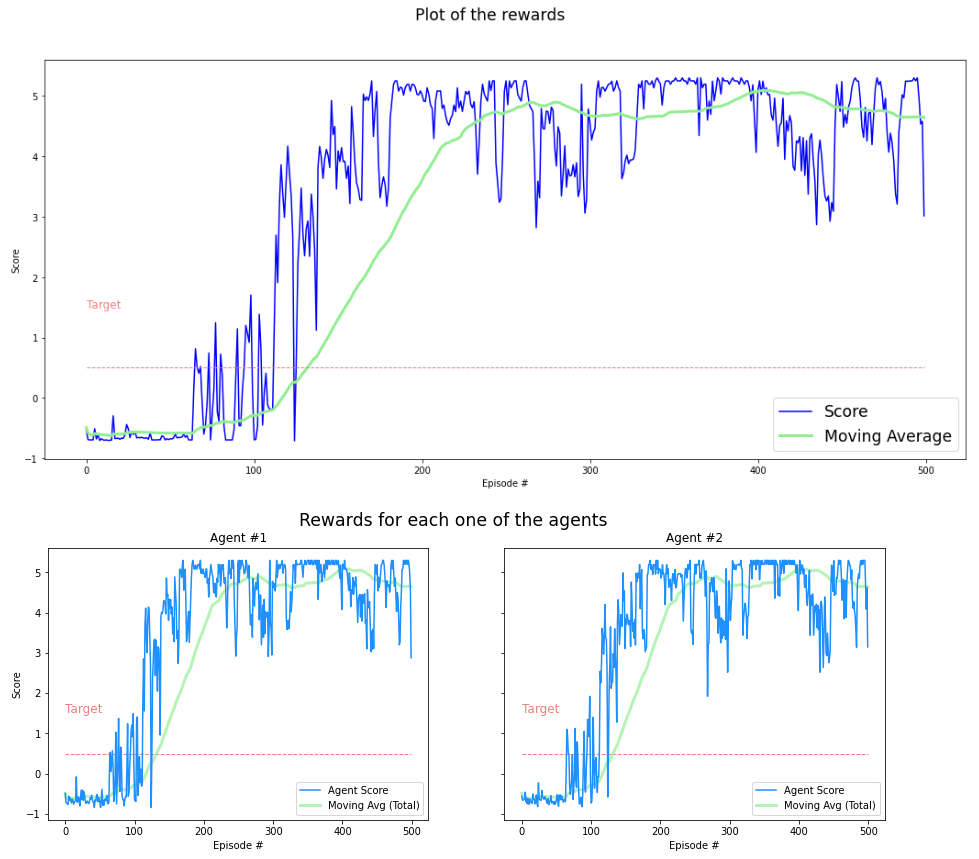
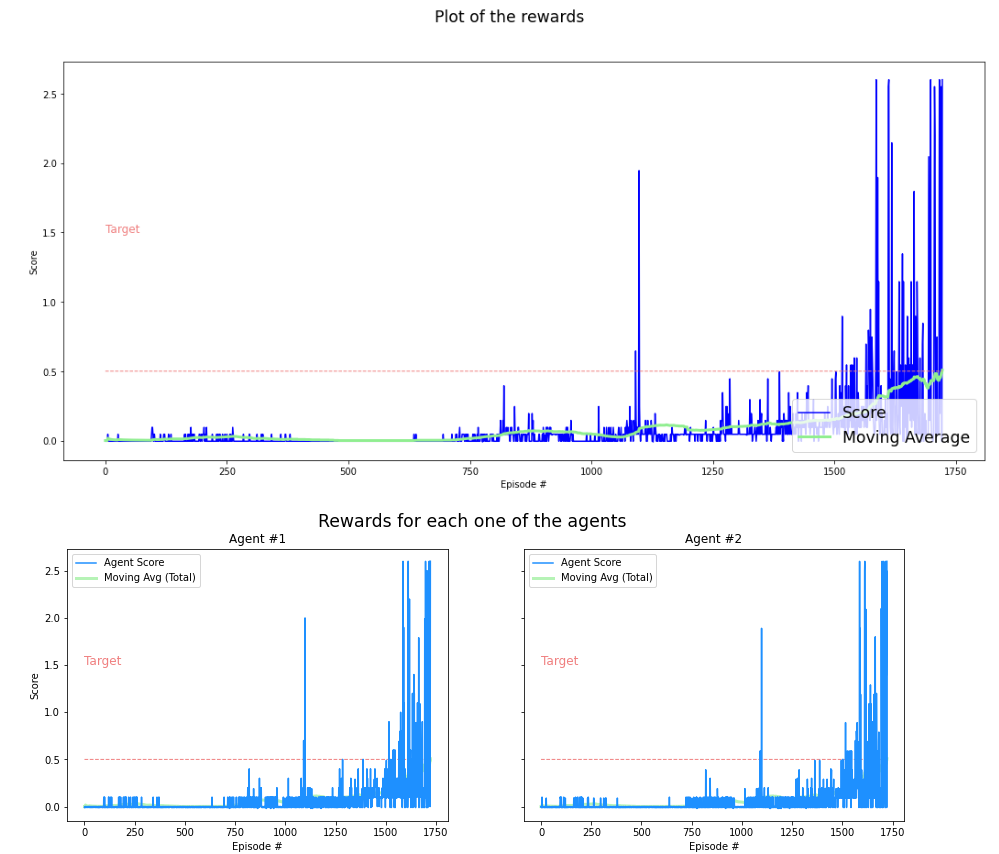
add images and report.md upgrade

diff --git a/P3_Collaboration_and_Competition/report.md b/P3_Collaboration_and_Competition/report.md
@@ -9,11 +9,13 @@ In order to solve this challenge, I have explored and implemented the Deep Deter
 
 Deep Deterministic Policy Gradient (DDPG) is an algorithm which concurrently learns a Q-function and a policy. It uses off-policy data and the Bellman equation to learn the Q-function, and uses the Q-function to learn the policy.
 
+In this DDPG model I use PER - Prioritized Experience Replay, to be able to solve the environment more fast.
+
 # Included in this repository
 The code used to create and train the Agent
 <pre>
 1) Tennis.ipynb: In this Jupyter Notebook file, you can train the agent and plot results. 
-2) Tennis_500.ipnb: train the algos for 500 episodes.
+2) Tennis_all.ipnb: notebook with more plot.
 3) ddpg_agent.py: implement the DDPG agent, a Noise (Ornstein-Uhlenbeck process) and a Replay Buffer class.
 4) model.py: Actor & Critic Networks.
 5) checkpoint_ddpg_solved.pt : The trained model
@@ -73,10 +75,9 @@ This solution has allowed us to significantly improve computational times and pe
 
 With this configuration I was able to solve the problem with only 849 episodes.
 ![alt text](./images/solved_env.png)
-The results after 849 episodes :
+The results after 1723 episodes with results of single agents:
 ![alt_text](./images/solved_500.png)
 
 ## Ideas for Future Work
 
- 1) use succesfully PER - Prioritized Experience Replay.
- 2) build a model using Alphazero or Muzero Algos.
+ 1) build a model using Alphazero or Muzero Algos.
